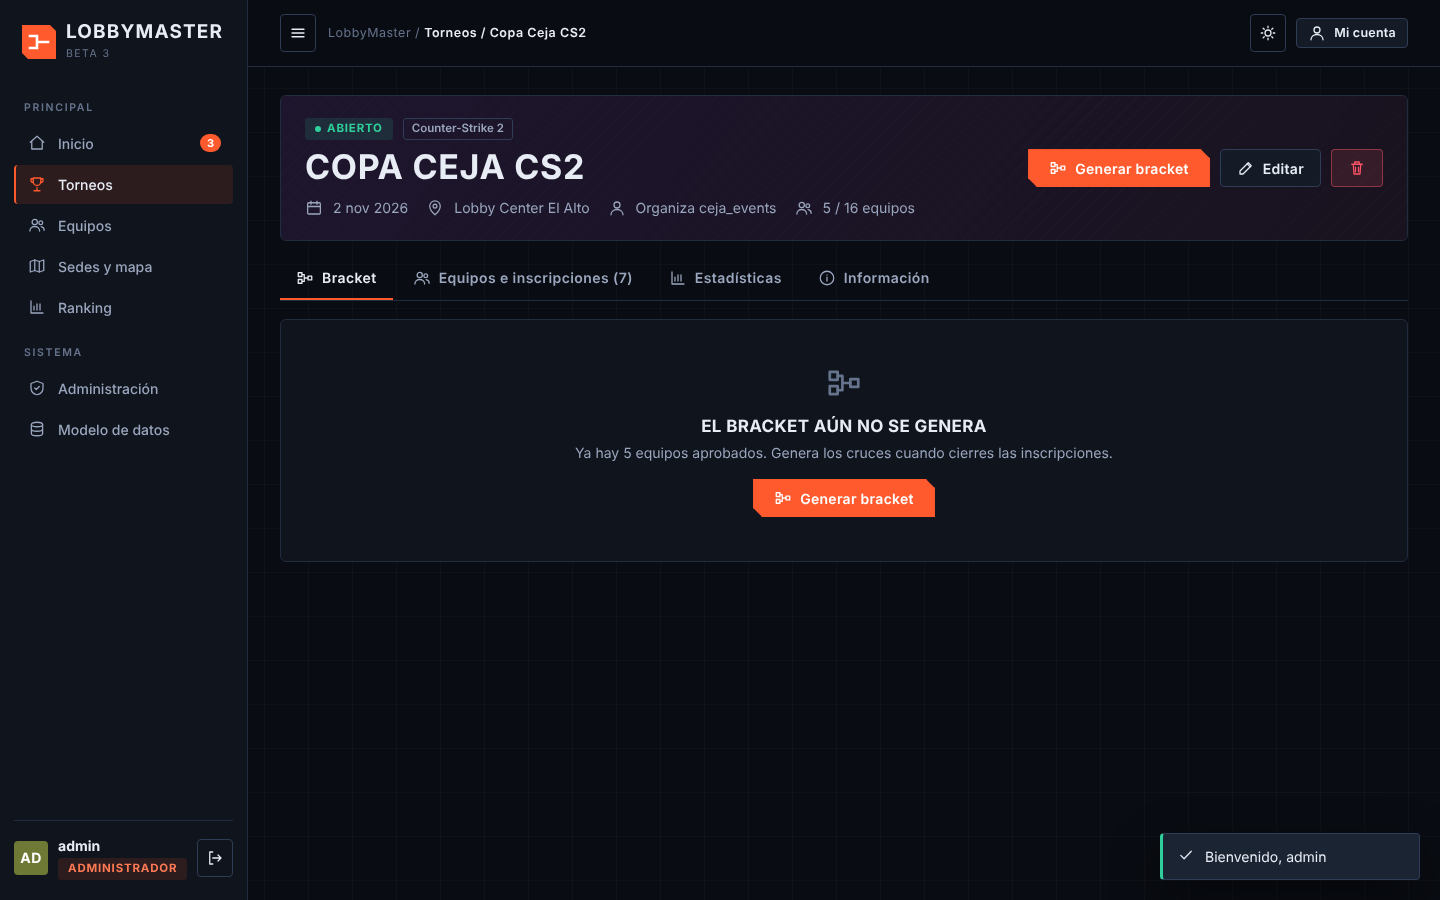
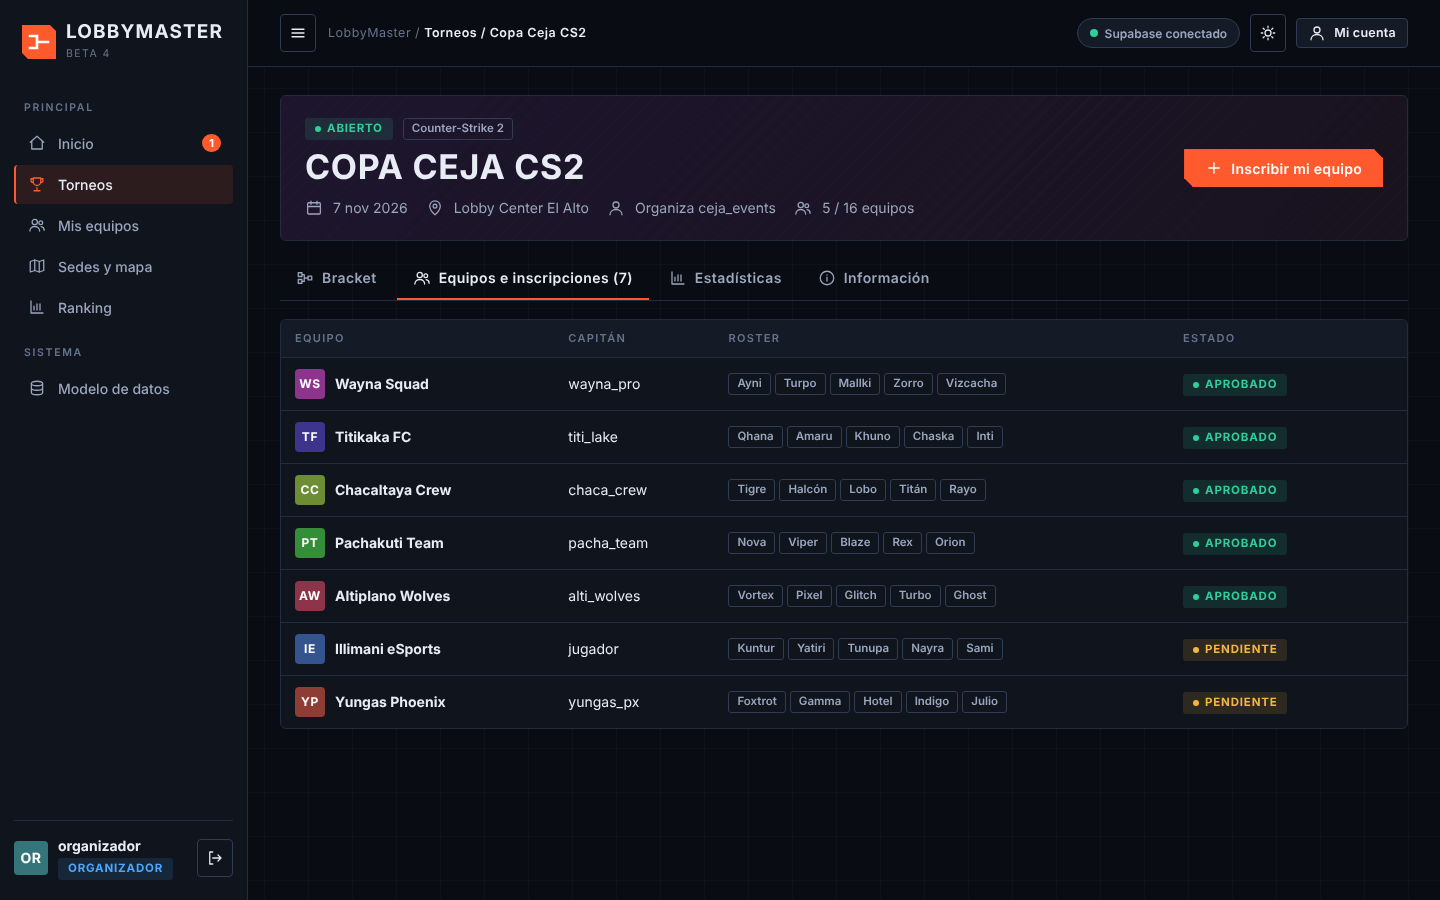
docs(manual): actualizar el manual a la Beta 4 con Supabase y sedes en el mapa

diff --git a/docs/MANUAL_DE_USUARIO.md b/docs/MANUAL_DE_USUARIO.md
@@ -1,8 +1,8 @@
-# Manual de usuario (versión inicial) · LobbyMaster
+# Manual de usuario · LobbyMaster
 
-**Autor:** Yair Anibal Mamani Ticona · **Versión del sistema:** 0.3.0 (Beta 3) · **Proyecto de Sistemas I, gestión 2-2026**
+**Autor:** Yair Anibal Mamani Ticona · **Versión del sistema:** 0.4.0 (Beta 4) · **Proyecto de Sistemas I, gestión 2-2026**
 
-Este manual explica cómo usar LobbyMaster paso a paso. Es la versión **inicial**: cubre lo que ya está disponible en la beta y crecerá con cada sprint.
+Este manual explica cómo usar LobbyMaster paso a paso. Cubre lo que está disponible en la Beta 4 y crecerá con cada sprint.
 
 ---
 
@@ -14,15 +14,24 @@ LobbyMaster es una página web para **organizar torneos de eSports** (videojuego
 - Aprobar o rechazar inscripciones.
 - Generar automáticamente el **bracket** (el cuadro de partidas de eliminación directa).
 - Registrar resultados, ver el avance del ganador y coronar al **campeón**.
-- Consultar estadísticas, ranking y las sedes en un mapa.
+- Consultar estadísticas, ranking y las sedes en un mapa, **sin necesidad de conocer coordenadas**.
+- Guardar todos los datos en una **base de datos en la nube (Supabase)**, para verlos desde cualquier lugar.
 
 ## 2. Cómo abrirla
 
 1. Descomprime la carpeta del proyecto (o clónala desde GitHub).
-2. Abre el archivo `frontend/index.html` con doble clic. Funciona en Chrome, Edge o Firefox.
-3. No necesita instalar nada ni conexión a internet (con internet carga mejor las tipografías).
+2. Abre el archivo `index.html` de la carpeta principal (o `frontend/index.html`) con doble clic. Funciona en Chrome, Edge o Firefox.
+3. No necesita instalar nada. **Con internet** se conecta a la base de datos Supabase y carga el mapa; **sin internet** sigue funcionando con los datos guardados en tu navegador.
 
-> En esta beta los datos se guardan en tu navegador. Cada persona ve sus propios datos.
+En la parte superior verás un indicador de conexión:
+
+| Indicador | Significado |
+|---|---|
+| **Supabase conectado** (verde) | Tus cambios se guardan en la base de datos en la nube. |
+| **Guardando…** | Se está enviando un cambio a la base. |
+| **Sin conexión · modo local** | No hay internet: puedes seguir trabajando y los cambios se suben al reconectar. |
+
+> Los datos del sistema viven en Supabase: las personas que abran la página ven la misma información. Para revisarlos directamente, abre el proyecto en Supabase → **Table Editor**.
 
 ## 3. Tipos de usuario (roles)
 
@@ -94,7 +103,10 @@ Reglas: solo el capitán inscribe; un equipo no se inscribe dos veces en el mism
 ### 7.1 Crear un torneo
 1. Entra a **Torneos** → **Nuevo torneo**.
 2. Completa: nombre (5 a 40 caracteres, único), juego, sede, fecha (no pasada) y cupos (de 4 a 32).
-3. Pulsa **Guardar**. El torneo queda **Abierto** para recibir inscripciones.
+3. Si la sede no existe todavía, pulsa **Nueva sede en el mapa** (ver sección 9) y vuelve al formulario.
+4. Pulsa **Crear torneo**. El torneo queda **Abierto** para recibir inscripciones.
+
+![Nuevo torneo](img/15_nuevo_torneo.png)
 
 ![Lista de torneos](img/03_torneos.png)
 
@@ -127,7 +139,7 @@ Cuando se juega la final, el torneo pasa a **Finalizado** y el campeón se desta
 En **Administración** puedes:
 
 - **Usuarios:** cambiar el rol o eliminar cuentas (siempre debe quedar al menos un administrador).
-- **Juegos y sedes:** agregar o editar los catálogos (no se elimina uno que esté en uso).
+- **Juegos y sedes:** agregar o editar los catálogos (no se elimina uno que esté en uso). Las sedes se eligen en el mapa.
 - **Bitácora:** ver las últimas acciones del sistema.
 - **Datos:** exportar la información en SQL o JSON y **Restaurar datos de demostración**.
 
@@ -136,9 +148,29 @@ En **Modelo de datos** se muestran el diagrama entidad-relación, la normalizaci
 ![Modelo de datos](img/11_modelo.png)
 
 ## 9. Sedes y mapa
-En **Sedes y mapa** se ven las sedes de torneos con su ubicación y un enlace para abrir **Cómo llegar** en Google Maps.
 
-![Sedes](img/09_sedes.png)
+Nadie necesita saber coordenadas: el lugar se elige en un mapa o se toma de Google Maps.
+
+![Sedes y mapa](img/09_sedes.png)
+
+**Ver una sede:** en **Sedes y mapa** toca un pin (o un nombre de la lista) para ver su dirección, los torneos que se juegan allí y los botones **Ver en Google Maps** y **Cómo llegar**.
+
+**Crear una sede nueva** (organizador o administrador): pulsa **Nueva sede**, escribe el nombre y la dirección o referencia, y elige la ubicación de una de estas formas:
+
+1. **Buscar:** escribe una calle, zona o lugar (por ejemplo, *Plaza Abaroa*), pulsa **Buscar** y elige el resultado correcto.
+2. **Tocar el mapa:** arrastra el mapa, usa **+** y **−** para acercar y toca el lugar exacto; aparece el pin.
+3. **Usar mi ubicación:** si estás en el lugar, el navegador coloca el pin por ti.
+4. **Google Maps:** pulsa **Abrir Google Maps**, busca el lugar, copia el enlace largo de la barra de direcciones (o los números que aparecen al hacer clic derecho sobre el lugar) y pégalos en el campo **Pega aquí el enlace…**; pulsa **Usar**.
+
+![Nueva sede](img/13_nueva_sede.png)
+
+Cuando aparece **Lugar elegido**, pulsa **Guardar sede**. No se puede guardar una sede sin ubicación ni repetir un nombre. Los enlaces cortos (`maps.app.goo.gl`) no traen las coordenadas: abre el enlace y copia la dirección larga.
+
+**En cada torneo:** la pestaña **Información** muestra la **Sede del torneo** en el mapa con los botones para abrirla en Google Maps.
+
+![Sede del torneo](img/14_sede_torneo.png)
+
+Editar o eliminar una sede es solo para el administrador. El mapa y la búsqueda necesitan internet.
 
 ## 10. Problemas frecuentes
 
@@ -148,12 +180,15 @@ En **Sedes y mapa** se ven las sedes de torneos con su ubicación y un enlace pa
 | No me deja inscribir mi equipo | Verifica que seas el capitán, que el torneo esté **Abierto**, que haya cupos y que no estés ya inscrito ese día. |
 | No puedo generar el bracket | Necesitas al menos 4 equipos **aprobados** y ser el organizador del torneo (o administrador). |
 | No veo el menú Administración | Es solo para administradores. |
+| El indicador dice «Sin conexión · modo local» | Revisa tu internet. Puedes seguir trabajando; al reconectar (recarga la página) los cambios se suben a Supabase. |
+| El mapa se ve en blanco o la búsqueda falla | Faltan los mosaicos del mapa por falta de internet. Aun así puedes pegar el enlace de Google Maps. |
 | La pantalla se ve mal o dio un error | Recarga la página. Si persiste, un administrador puede usar **Restaurar datos de demostración**. |
 
-## 11. Alcance de esta versión inicial
+## 11. Alcance de esta versión
 
-Disponible hoy: registro e ingreso con roles, torneos, inscripciones, bracket automático, resultados, campeón, estadísticas, ranking, sedes y administración.
-Pendiente para próximos sprints: historial completo y panel avanzado del organizador, servidor con base de datos compartida y recuperación de contraseña por correo.
+Disponible hoy: registro e ingreso con roles, torneos, inscripciones, bracket automático, resultados, campeón, estadísticas, ranking, **sedes con mapa y Google Maps** y **base de datos en la nube (Supabase)**, además de la administración.
+
+Limitaciones conocidas: la base está abierta para fines académicos, por lo que las cuentas de demostración no deben usar contraseñas reales; la recuperación de contraseña por correo y el panel avanzado del organizador quedan para próximos sprints.
 
 ---
-*Manual elaborado por Yair Anibal Mamani Ticona · LobbyMaster v0.3.0*
+*Manual elaborado por Yair Anibal Mamani Ticona · LobbyMaster v0.4.0*
